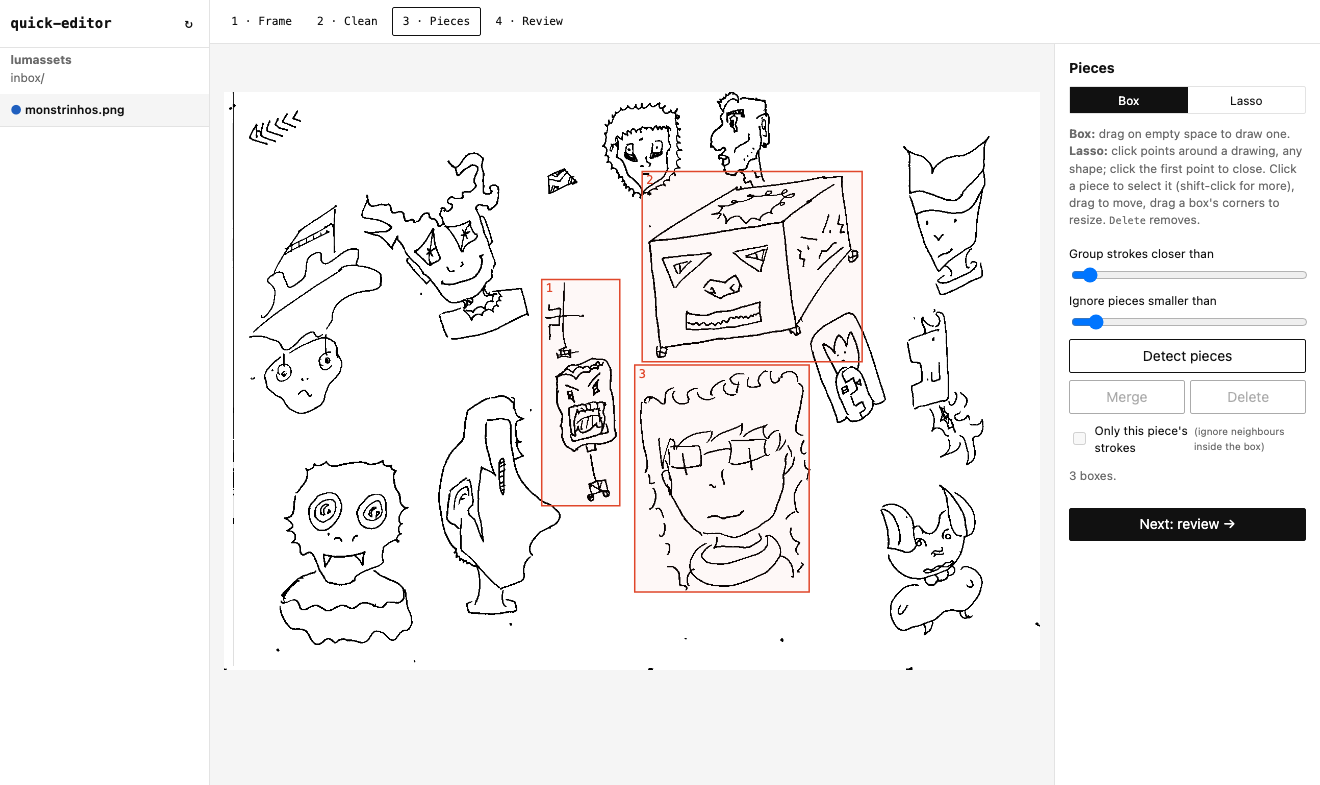
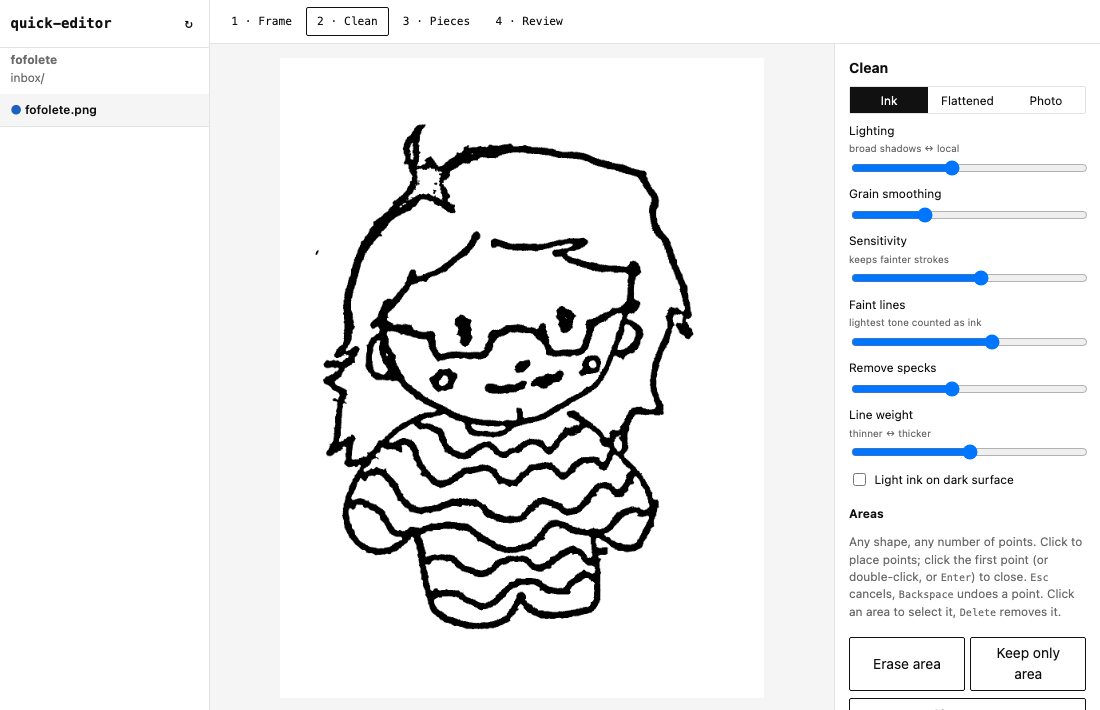
Use Fofolete in the Quick-editor walkthrough

diff --git a/README.md b/README.md
@@ -2,9 +2,9 @@
 
 quick-editor is a little tool by [Luma Montes][luma] for turning photos of drawings into clean, transparent SVGs. I made it to get drawings out of my notebooks and into [Lumassets][lumassets].
 
-![The Pieces step in Quick-editor, with three drawings marked on the Monstrinhos page.](docs/studio-screenshot.png)
+![Fofolete, a little character with glasses and a striped sweater, in Quick-editor’s ink preview. The cleaning controls sit to the right.](docs/studio-screenshot.png)
 
-It runs on your machine and opens in the browser. Put a scan or photo in the inbox, then work through **Frame**, **Clean**, **Pieces**, and **Review**. Straighten the page, adjust what counts as ink, and draw a box or lasso around each piece you want to keep. You can stop and come back to the same page later.
+That’s Fofolete in the ink preview. Start with a photo or scan, pick the drawing you want to keep, and save it as an SVG. Everything runs on your machine.
 
 ## Install and run
 
@@ -15,14 +15,22 @@ brew install uv potrace
 uv tool install git+https://github.com/lumamontes/quick-editor
 ```
 
-From the folder where you keep your drawings:
+Open a terminal in the folder where you keep your drawings:
 
 ```sh
 quick-editor init
+mkdir -p inbox
 quick-editor
 ```
 
-Put photos in `inbox/` and select one at [localhost:4400](http://localhost:4400). JPG, PNG, HEIC, AVIF, TIFF, and WebP all work. Use `quick-editor --project <folder>` to open a different project.
+Copy a photo to `inbox/` and pick it in the sidebar at [localhost:4400](http://localhost:4400). JPG, PNG, HEIC, AVIF, TIFF, and WebP all work.
+
+1. **Frame.** Mark the corners to straighten the page. For a flat scan, choose **Whole photo**.
+2. **Clean.** Adjust the preview until you can see the lines you want to keep.
+3. **Pieces.** Draw a box or lasso around each drawing you want to save.
+4. **Review.** Give each piece a name and choose **Save checked pieces**.
+
+Quick-editor saves your place as you work. Use `quick-editor --project <folder>` to open a different project.
 
 ## What it saves
 
